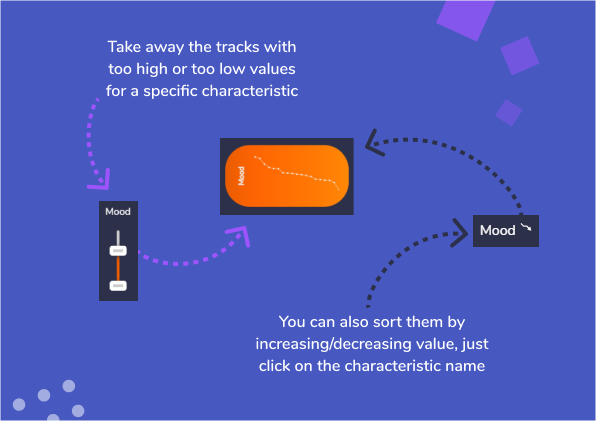
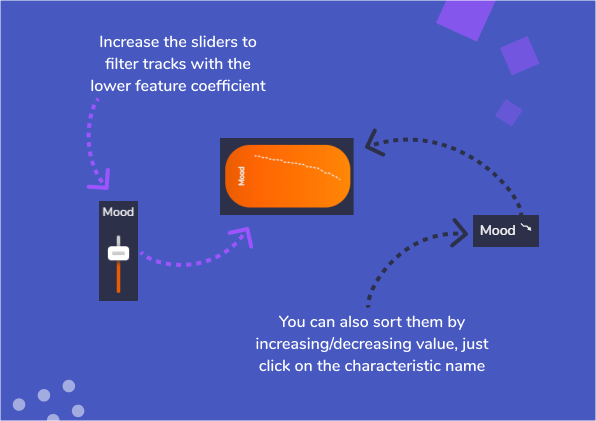
FIlter option button + new Slides

diff --git a/hooks/utils/utilsSortState.js b/hooks/utils/utilsSortState.js
@@ -133,7 +133,7 @@ export const reverseOrder = (arr) => {
     return sorted;
 }
         
-export function newSortListIII(slidersValues, initialList) {
+export function newSortListIII(slidersValues, initialList, lowPassFilter) {
     
     let sorted = initialList; // [...list]
     let computedList = [];
@@ -161,14 +161,27 @@ export function newSortListIII(slidersValues, initialList) {
         slidersAverage = slidersAverage + slidersValues[property] / (activeSliders * 100);
     }
 
-    console.log(activeSliders, slidersAverage, Math.floor(100 * (1 - slidersAverage))/100, 'AS, SA, MF%');
-    const perCentageTracksToRetrieve = Math.floor(100 * slidersAverage) / 100;
-    const numberOfTracksToRetrieve = sorted.length * perCentageTracksToRetrieve > (sorted.length - 10) ? (sorted.length - 10) : sorted.length * perCentageTracksToRetrieve;
-
+    // console.log(activeSliders, slidersAverage, Math.floor(100 * (1 - slidersAverage))/100, 'AS, SA, MF%');
+    const perCentageTracksToRetrieve = Math.floor(100 * slidersAverage) / 100 || 0;
+    
     // console.log(sorted.length * perCentageTracksToRetrieve, numberOfTracksToRetrieve, 'numberOfTracksToRetrieve');
-
+    
     computedList = sortByAscCoef(computedList);
-    computedList = computedList.slice(numberOfTracksToRetrieve , sorted.length);
+    
+    const numberOfTracksToRetrieve = sorted.length * perCentageTracksToRetrieve > (sorted.length - 10) ? (sorted.length - 10) : sorted.length * perCentageTracksToRetrieve;
+    
+    if (lowPassFilter) {
+        //default -> keep top, retrieve bottom
+        computedList = computedList.slice(numberOfTracksToRetrieve , sorted.length);
+    }
+    else {
+        // if user clicked, filter top part, keep bottom values
+        const numberOfTracksToKeep = sorted.length - numberOfTracksToRetrieve > 10 ? sorted.length - numberOfTracksToRetrieve : 10;
+        computedList = computedList.slice(0, numberOfTracksToKeep);
+    }
+
+    console.log('CL', computedList, perCentageTracksToRetrieve);
+
 
     sorted = sorted.filter(track => computedList.map(item => item.id).includes(getTrackID(track)));
     // console.log(sorted, 'try', getTrackID(sorted[0]), computedList.map(item => item.id).includes(getTrackID(sorted[20])));

diff --git a/hooks/useSortState.js b/hooks/useSortState.js
@@ -43,12 +43,18 @@ const onlySavedState = atom({
     default: false
 });
 
+const lowPassFilterState = atom({
+    key: 'lowPassFilterState',
+    default: true
+});
+
 export default function useSortState() {
 
     const [slidersValues, setSlidersValues] = useRecoilState(slidersState);
     const [sortedTracks, setSortedTracks] = useRecoilState(sortedState);
     const [featureSorting, setFeatureSorting] = useRecoilState(featureSortingState);
     const [onlySaved, setOnlySaved] = useRecoilState(onlySavedState);
+    const [lowPassFilter, setLowPassFilter] = useRecoilState(lowPassFilterState);
 
     const initSortState = (init) => {
         setOnlySaved(current => false);
@@ -58,6 +64,10 @@ export default function useSortState() {
 
     const handleOnlySaved = () => {
         setOnlySaved(current => !current);
+    }
+
+    const handleLowPass = () => {
+        setLowPassFilter(current => !current);
     }
 
     const handleFeatureSortingClick = (newFeature) => () => {
@@ -75,7 +85,7 @@ export default function useSortState() {
 
     useEffect(() => {
         if (sortedTracks.length > 0) {
-            let sorted = newSortListIII(slidersValues, sortedTracks.initial);
+            let sorted = newSortListIII(slidersValues, sortedTracks.initial, lowPassFilter);
 
             //Sorting based on direction
             if (onlySaved) {
@@ -90,6 +100,7 @@ export default function useSortState() {
 
     const resetSortState = () => {
         setOnlySaved(false);
+        setLowPassFilter(true);
         setSlidersValues(current => ({
             ...current,
             danceability: 0,
@@ -112,10 +123,12 @@ export default function useSortState() {
     
     return {
         handleOnlySaved,
+        handleLowPass,
         handleFeatureSortingClick,
         initSortState,
         sortedTracks,
         onlySaved,
+        lowPassFilter,
         featureSorting,
         resetSortState,
     }

diff --git a/Components/playlits/Containers/PlaylitsPanel.jsx b/Components/playlits/Containers/PlaylitsPanel.jsx
@@ -12,6 +12,7 @@ import PanelCollapse from '../PanelCollapse'
 import { slidersSimple } from '../../../utils/playlits/slidersData'
 import TracksNumber from '../TracksNumber'
 import useSortState from '../../../hooks/useSortState'
+import FilterButton from '../FilterButton'
 
 const useStyles = makeStyles(theme => ({
     title: {
@@ -62,8 +63,10 @@ export default function PlaylitsPanel() {
     const classes = useStyles();
     const {
         handleOnlySaved,
+        handleLowPass,
         sortedTracks,
         onlySaved,
+        lowPassFilter,
         resetSortState
     } = useSortState();
     const lovedArray = sortedTracks.actual.filter(track => track.isSaved === true);
@@ -104,6 +107,7 @@ export default function PlaylitsPanel() {
                 <div className={classes.centerContentButton}>
                     <OnlySavedButton onlySaved={onlySaved} onClick={handleOnlySaved} disabled={!hasLovedSong} />
                 </div>
+                <FilterButton lowPassFilter={lowPassFilter} onClick={handleLowPass} />
             </Box>
             <PanelCollapse name={"Sliders"} icon={<SlidersIcon />}>
                 {sortedTracks.length > 0 &&

diff --git a/Components/playlits/FilterButton.jsx b/Components/playlits/FilterButton.jsx
@@ -1,15 +1,13 @@
 import { Typography, Tooltip } from '@material-ui/core'
 import React from 'react'
 import CustomButton from '../CustomButton'
-import DecreaseIcon from '../IconsJSX/DecreaseIcon'
-import IncreaseIcon from '../IconsJSX/IncreaseIcon'
 
-export default function TracksNumber({ number }) {
+export default function FilterButton({ lowPassFilter, onClick }) {
 
     return (
-        <CustomButton onClick={null} color={'#7080F4'} disableElevation>
+        <CustomButton onClick={onClick} color={lowPassFilter ? '#00B054' : '#FF5542'}>
             <Typography align='left' component='h3' variant='subtitle2' style={{ marginRight: '0.5rem' }}>
-                {number} Tracks
+                Keep <span style={{ color: '#2C3049' }}>{lowPassFilter ? 'Lowest' : 'Highest'}</span> values
             </Typography>
         </CustomButton>
     )

diff --git a/Components/playlits/OnlySavedButton.jsx b/Components/playlits/OnlySavedButton.jsx
@@ -18,7 +18,7 @@ export default function OnlySavedButton({ onlySaved, onClick, disabled }) {
 
     return (
         <CustomButton onClick={onClick} color={onlySaved ? '#7CCC6C' : '#D62598'} disabled={disabled}>
-            <Typography align='left' component='h3' variant='subtitle1' style={{ marginRight: '0.5rem' }}>
+            <Typography align='left' component='h3' variant='subtitle2' style={{ marginRight: '0.5rem' }}>
                 {onlySaved ? 'All Onboard' : 'Only the Loved ones'}
             </Typography>
             {onlySaved ? <span role="img" aria-label="sheep">🌈</span> : <span role="img" aria-label="sparkling-heart">💖</span>}
